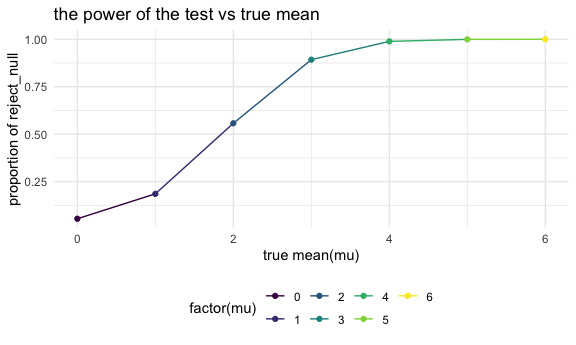
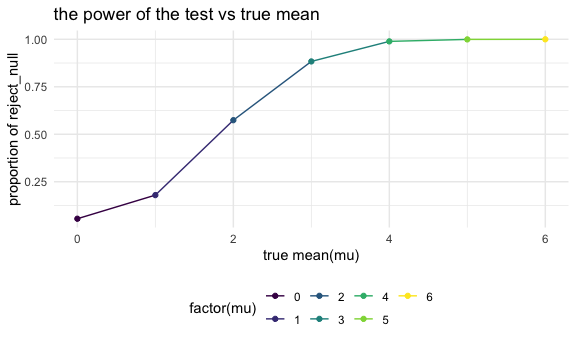
fix all the problems

diff --git a/p8105_hw5_mb4757.md b/p8105_hw5_mb4757.md
@@ -5,6 +5,8 @@ HW 5
 library(tidyverse)
 library(rvest)
 library(lattice)
+library("animation")
+library("magrittr")
 
 knitr::opts_chunk$set(
   fig.width = 6,
@@ -125,10 +127,10 @@ take a look at 1 csv file
 data_1 = read_csv("lda_data/con_01.csv")
 ```
 
-make the tibble and tody the results
+make the tibble and tidy the results
 
 ``` r
-path_df =
+tidy_df =
 tibble(
 path = list.files("lda_data")
 ) %>% 
@@ -138,33 +140,50 @@ path = list.files("lda_data")
     unnest(data) %>% 
   separate(path, into = c("path", "other"), sep= "/") %>% 
   separate(other, into = c("arm", "rest"), sep= "_") %>% 
-  separate(rest, into = c("ID", "remain"), sep= 2) %>% 
+  separate(rest, into = c("subject_ID", "remain"), sep= 2) %>% 
   select(-path, -remain) %>% 
-  filter(arm == "con")
+    pivot_longer(
+    week_1:week_8,
+    names_to = "time",
+    values_to = "observations"
+    ) %>% 
+  mutate(
+    arm = str_replace(arm, "con", "control"),
+    arm = str_replace(arm, "exp", "experimental")
+  ) %>% 
+  separate(time, into = c("name", "week"), sep= "_") %>% 
+  select(-name)
+  
+
+control_arm_df = 
+tidy_df %>% 
+  filter(arm == "control") %>% 
+  rename(control_arm = arm)
 ```
 
 make the spaghetti plot
 
 ``` r
-results_df =
-path_df %>% 
-  pivot_longer(
-    week_1:week_8,
-    names_to = "time",
-    values_to = "values"
-  )
-
-ggplot(results_df, aes(x=time, y=values, group = ID, color=factor(ID))) +
+tidy_df %>% 
+  group_by(arm) %>% 
+ggplot(aes(x=week, y=observations, group = subject_ID, color=factor(subject_ID))) +
   geom_path(alpha = 0.7) + 
   geom_point(alpha = 0.7) +
-  theme_bw()
+  facet_grid(.~arm)
 ```
 
 <img src="p8105_hw5_mb4757_files/figure-gfm/unnamed-chunk-9-1.png" width="90%" />
 
-## Problem 3
+``` r
+# + scale_color_hue(name = "subject_ID") ## only for discrete data
+```
 
-\[X_i \stackrel{i.i.d.}{\sim} Norm(0,5)\]
+In these two time-series plots, both control and experimental groups’
+observations are oscillating. The trend of control group’s observations
+are flat over time. However, as the time increases, the experimental
+group’s observations are increasing.
+
+## Problem 3
 
 write a hypothesis function
 
@@ -195,7 +214,7 @@ hypothesis(30, 0, 5)
     ## # A tibble: 1 x 2
     ##   estimate p.value
     ##      <dbl>   <dbl>
-    ## 1   -0.743   0.513
+    ## 1    -1.75  0.0364
 
 Create 5000 datasets for hypothesis test mu = 0 iteration
 
@@ -212,16 +231,16 @@ bind_rows(output)
     ## # A tibble: 5,000 x 2
     ##    estimate p.value
     ##       <dbl>   <dbl>
-    ##  1  -0.122   0.910 
-    ##  2  -0.448   0.594 
-    ##  3   0.191   0.824 
-    ##  4   1.71    0.0857
-    ##  5   0.293   0.767 
-    ##  6   0.624   0.504 
-    ##  7  -0.160   0.881 
-    ##  8   0.585   0.508 
-    ##  9  -1.66    0.0699
-    ## 10  -0.0835  0.915 
+    ##  1    0.834  0.388 
+    ##  2    0.466  0.636 
+    ##  3   -0.268  0.758 
+    ##  4    0.229  0.795 
+    ##  5   -1.51   0.0555
+    ##  6   -0.189  0.846 
+    ##  7    1.24   0.224 
+    ##  8   -0.445  0.604 
+    ##  9    0.136  0.868 
+    ## 10   -0.724  0.487 
     ## # … with 4,990 more rows
 
 Create 5000 datasets for hypothesis t.test(mu = 0) with true mu = 0:6
@@ -311,7 +330,54 @@ ggplot(plot2_df, aes(x = mu, y = mean_mu_hat)) +
   geom_point(plot3_df, mapping = aes(x = mu, y = mean_mu_hat)) +
   labs(x = "true mean(mu)", 
        y = "average estimate of mu_hat ", 
-       title = "average estimate of mu_hat vs true mean")          
+       title = "average estimate of mu_hat vs true mean")   
 ```
 
 <img src="p8105_hw5_mb4757_files/figure-gfm/unnamed-chunk-15-1.png" width="90%" />
+
+``` r
+#The red line is the average estimate of mu_hat vs the true value of true mean.
+
+#The black line is the average estimate of mu_hat only in samples for which the null was rejected vs the true mean.
+```
+
+When true mean mu is from 0 to 3, the sample average of mu\_hat across
+tests for which the null is rejected not approximately equal to the true
+value of mu. True mean(mu) and mean\_mu\_hat are different from each
+other because power is small. This means Type II error is big since
+power = 1-beta(Type II error).
+
+When true mean mu is from 4 to 6, the sample average of mu\_hat across
+tests for which the null is rejected approximately equal to the true
+value of mu.
+
+As the true mean mu increase, the proportion of times the null was
+rejected is higher and true mean(mu) almost equal to mean\_mu\_hat. This
+happens because power is large, which means type II error is small.
+
+We can see how does the power changes as the true mean(mu) increase from
+the following table.
+
+``` r
+power_table =
+plot1_df %>% 
+  rename(power = proportion)
+knitr::kable(power_table, title = "power table for mu from 0 to 6")
+```
+
+| mu | decision\_rule |    n |  power |
+| -: | :------------- | ---: | -----: |
+|  0 | reject\_null   |  276 | 0.0552 |
+|  1 | reject\_null   |  898 | 0.1796 |
+|  2 | reject\_null   | 2870 | 0.5740 |
+|  3 | reject\_null   | 4417 | 0.8834 |
+|  4 | reject\_null   | 4945 | 0.9890 |
+|  5 | reject\_null   | 4997 | 0.9994 |
+|  6 | reject\_null   | 5000 | 1.0000 |
+
+``` r
+#notes:
+#Power = 1 – beta(type II error). Significance level = 1 - alpha(Type I error). In reality, we want both Type I and Type II errors to be small. In terms of significance level and power, which means we want a larger significance level and a large power. 
+
+#Type 2 error (failing to reject a false null hypothesis) can be minimized either by picking a larger sample size or by choosing a "threshold" alternative value of the parameter in question that is further from the null value.
+```
